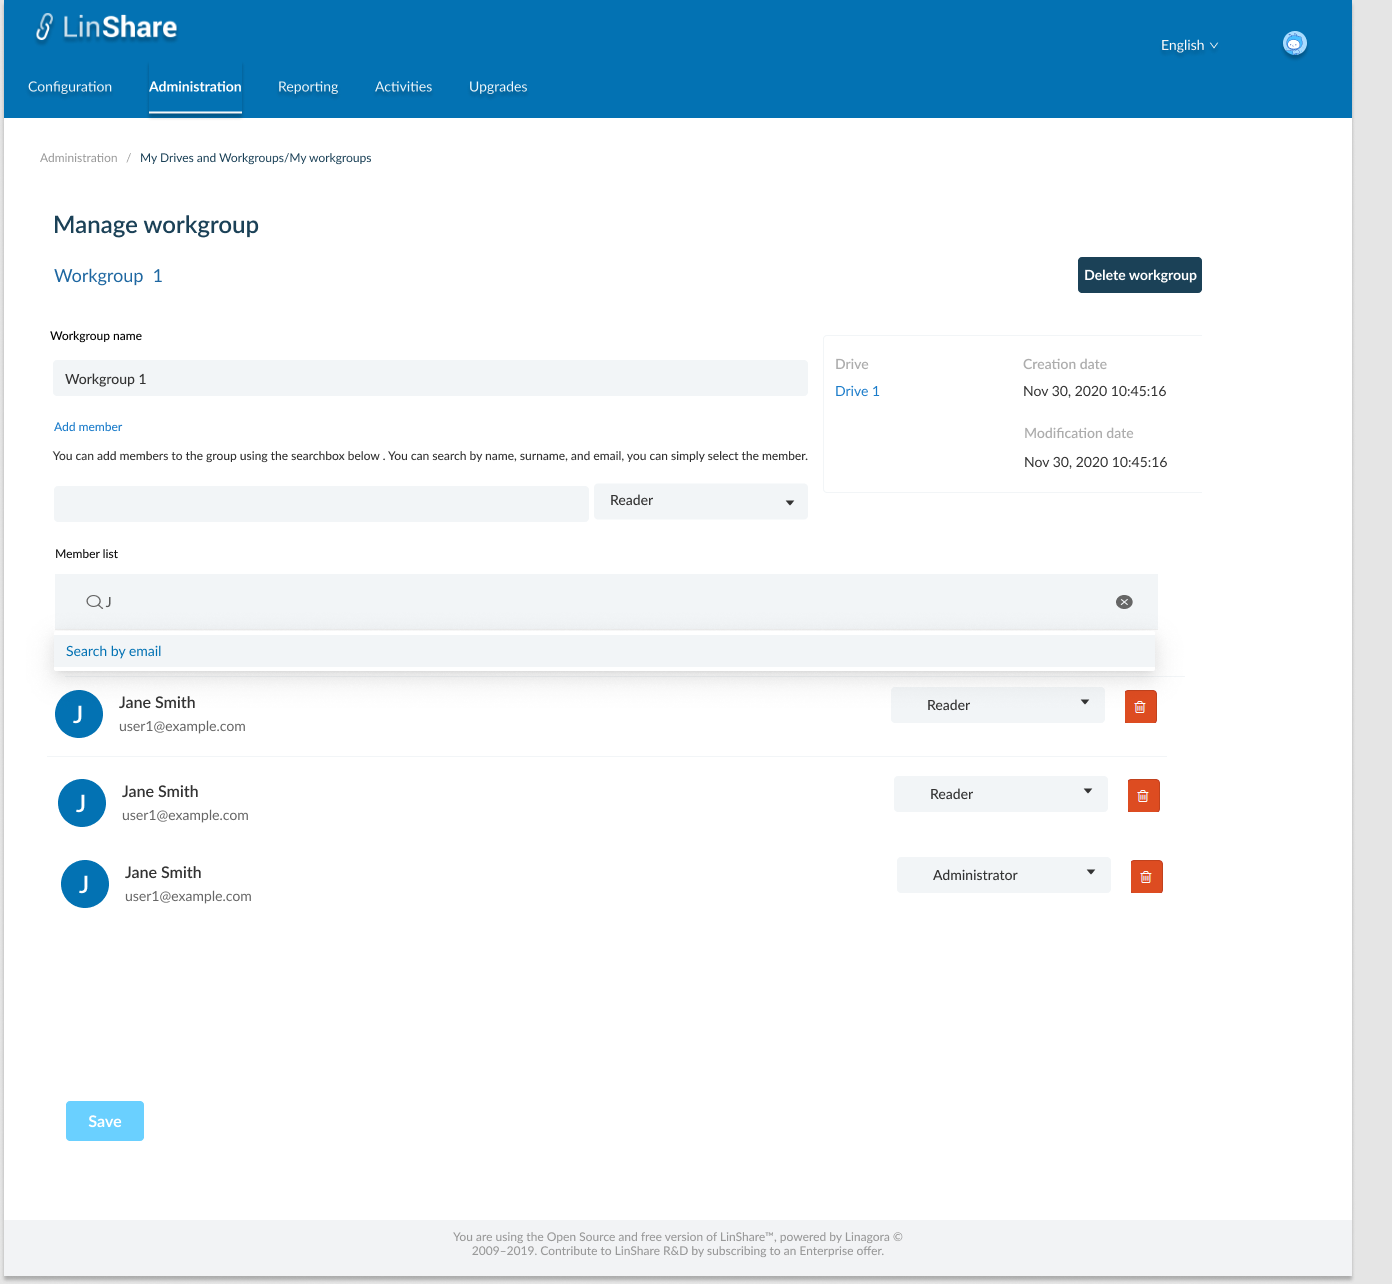
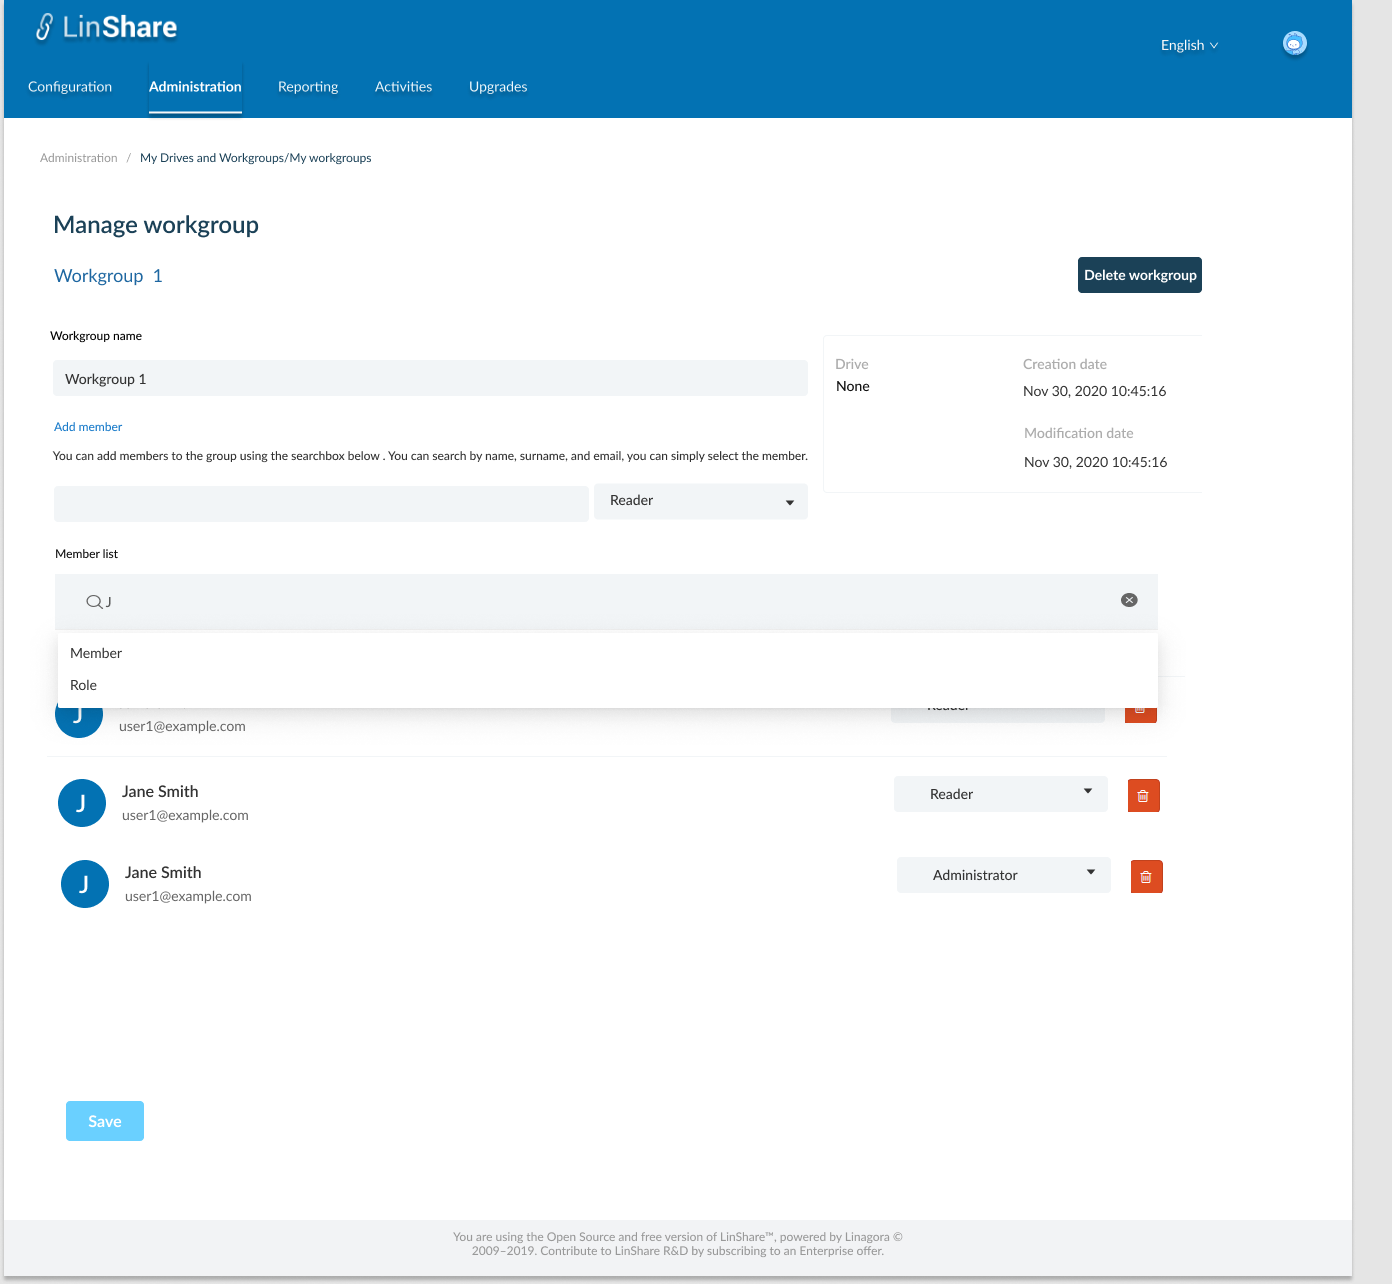
Update documentation/EN/epics/new-admin-portal/mockups/3.1.png, documentation/EN/epics/new-admin-portal/mockups/3.2.png, documentation/EN/epics/new-admin-portal/mockups/3.3.png, documentation/EN/epics/new-admin-portal/story-3-admin-manage-workgroup.md files

diff --git a/documentation/EN/epics/new-admin-portal/story-3-admin-manage-workgroup.md b/documentation/EN/epics/new-admin-portal/story-3-admin-manage-workgroup.md
@@ -18,6 +18,7 @@
 
 ### Description
 
+**UC1.View/Ddit/Delete workgroup**
 - After log-in Admin Portal successfully, i go to Administration tab
 - On Administration tab, i can see the list of links to screens: My users, My Drives/workgroups, My contact lists, Inconsistent users, loggers 
 - I click on My Drives/ Workgroups, the screen My Drives and Workgroups list will be opened
@@ -27,39 +28,52 @@
    - "Delete workgroup" button:
       - When i click on this button, there will be a confirmation message.
       - When i choose Yes to confirm, the workgroup will be removed. Now the workgroup members cannot find that workgroup in User app.
-      - I wil see a toast notification toast and back to the Workgroups/Drive list screen. 
+      - I wil see a toast notification and back to the Workgroups/Drive list screen. 
    - On the right part i can see uneditable fields including: 
-      - Drive link: The parent Drive that contain current workgroup if any. I can click on this link to go to Manage drive . If this workgroup is standalone, the text "None" is displayed.
+      - Drive: The link to parent Drive that contain current workgroup. I can click on this link to go to Manage drive . If this workgroup is standalone, the text "None" is displayed.
       - Creation date
       - Modification date 
    - On the left part i can see the editable fields including:
-      - Worgkroup name: Text field. This field cannot be blank or contains special characters. When click Save button, if the workgroup name is invalid, i can see an error message
-      - Add member: I can select role from the dropdown list (Administrator, Writer, Contributor, Reader), then typing in the field, system will display a suggestion list (internal user and guest user). I select one user from this list  then he will become the workgroup members with the selected role.
-      - A member list: Include all memer information of the workgroup: 
-         - A search bar: I can choose search criteria from the list: Member or Role.
-            - If I choose member, the search bar will display: " Member = "text input" When i start typing, i can see the suggestion list of Linshare user (internal and guest account) which have first name, last name or email contains text inputed. I can select member from the list.
-            - If I choose Role, the search bar will display: Role = "Dropdown list". Options include: Administrator, Writer, Contributor, Reader
-            - I can only choose one search criteria, if i want to change, i have to delete the other. 
-            - If i do not choose search criteria and type in the search bar, the default search will be email.
-         - Each member is displayed in one role. Each role include:
-            - Firstname + Last name of member
-            - Email
-            - Role: display current role of member. I can re-choose role from drop-down list: Administrator, Writer, Contributor, Reader. The new role will be updated instantly. 
-            - A Delete button: When i click on this button, there will be a confirmation message. If i choose Yes, the member will be removed from workgroup. 
+      - Worgkroup name: Text field. This field cannot be blank or contains special characters. When click Save button, if the workgroup name is invalid, i can see an error message.
+   
+**UC2.Manage member list of a standalone workgroup**
+- In Manage workgroup screen, i can see the list of user: 
+- A search bar: I can choose search criteria from the list: Member or Role.
+   - If I choose member, the search bar will display: " Member = "text input" When i start typing, i can see the suggestion list of Linshare user (internal and guest account) which have first name, last name or email contains text inputed. I can select member from the list.
+   - If I choose Role, the search bar will display: Role = "Dropdown list". Options include: Administrator, Writer, Contributor, Reader
+   - I can only choose one search criteria, if i want to change, i have to delete the other.
+   - If i do not choose search criteria and type in the search bar, the default search will be email.
+- Each member is displayed in one role. Each role include:
+   - Firstname + Last name of member
+   - Email
+   - Role: display current role of member. I can re-choose role from drop-down list: Administrator, Writer, Contributor, Reader. The new role will be updated instantly. 
+   - A Delete button: When i click on this button, there will be a confirmation message. If i choose Yes, the member will be removed from workgroup. 
+- Add member:
+   - I can select role from the dropdown list (Administrator, Writer, Contributor, Reader)
+   - Then i type in the field, system will display a suggestion list (internal user and guest user) which have first name, last name or email contains text inputed.
+   - I select one user from this list then he will become the workgroup members with the selected role.  
+
+**UC3. Manage member list of a nested workgroup (a workgroup inside a drive)**
+- With a nested workgroup, i can also see the list of members and search member 
+- Each member on the member list has a label : Drive member or External member to distinguish if a workgroup member is also a member of parent Drive.
+- If member is a drive member, i can only update the role and cannot delete the member, so there is no Delete icon
+- If member is external member, i can both update member role and Delete that member
+- When i add a member to the workgroup, this member is an external member
 
 [Back to Summary](#summary)
 
-## UI Design
+## UI Design
 
-#### Mockups
+### Mockups
 
 ![3.1](./mockups/3.1.png)
-![3.1](./mockups/3.2.png)
+![3.2](./mockups/3.2.png)
+![3.3](./mockups/3.3.png)
 
-#### Final design
+### Final design
 
 [Back to Summary](#summary)
 
-## Misc
+## Misc
 
 [Back to Summary](#summary)
